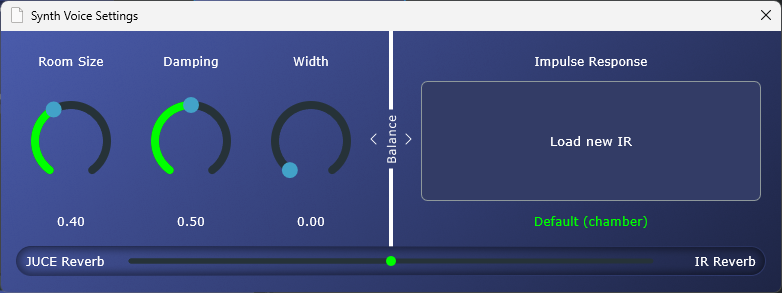
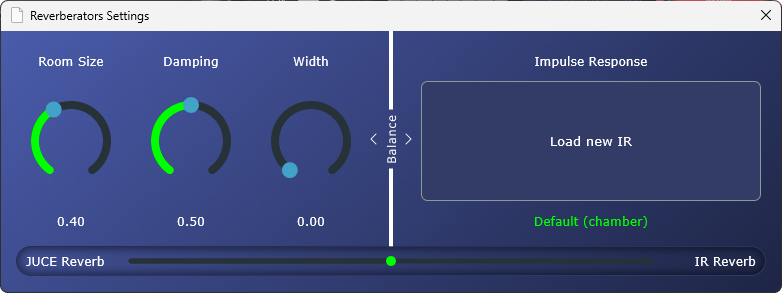
updated screenshots

diff --git a/Source/PluginEditor.cpp b/Source/PluginEditor.cpp
@@ -214,7 +214,7 @@ void SinthethiccAudioProcessorEditor::showReverberationEditorWindow()
 	juce::DialogWindow::LaunchOptions options;
 	options.content.setOwned(new ReverberationEditor(audioProcessor.apvts, audioProcessor));
 	options.content->setSize(780, 261);
-	options.dialogTitle = "Synth Voice Settings";
+	options.dialogTitle = "Reverberators Settings";
 	options.dialogBackgroundColour = juce::Colour(0xff1e2545);
 	options.escapeKeyTriggersCloseButton = true;
 	options.useNativeTitleBar = true;
